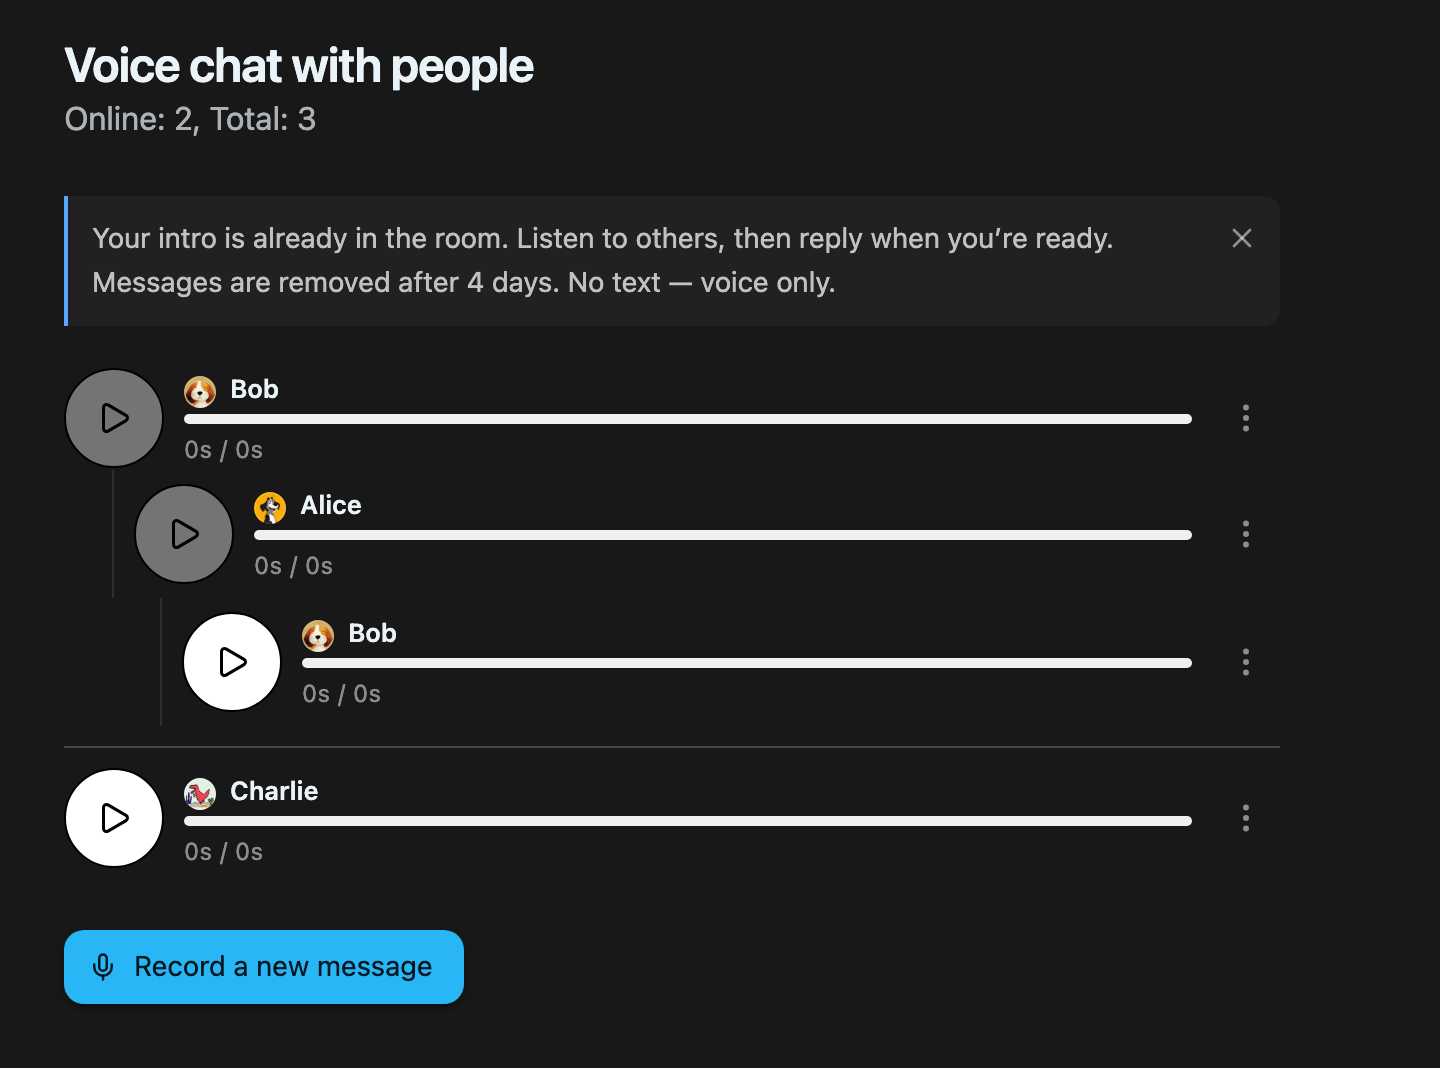
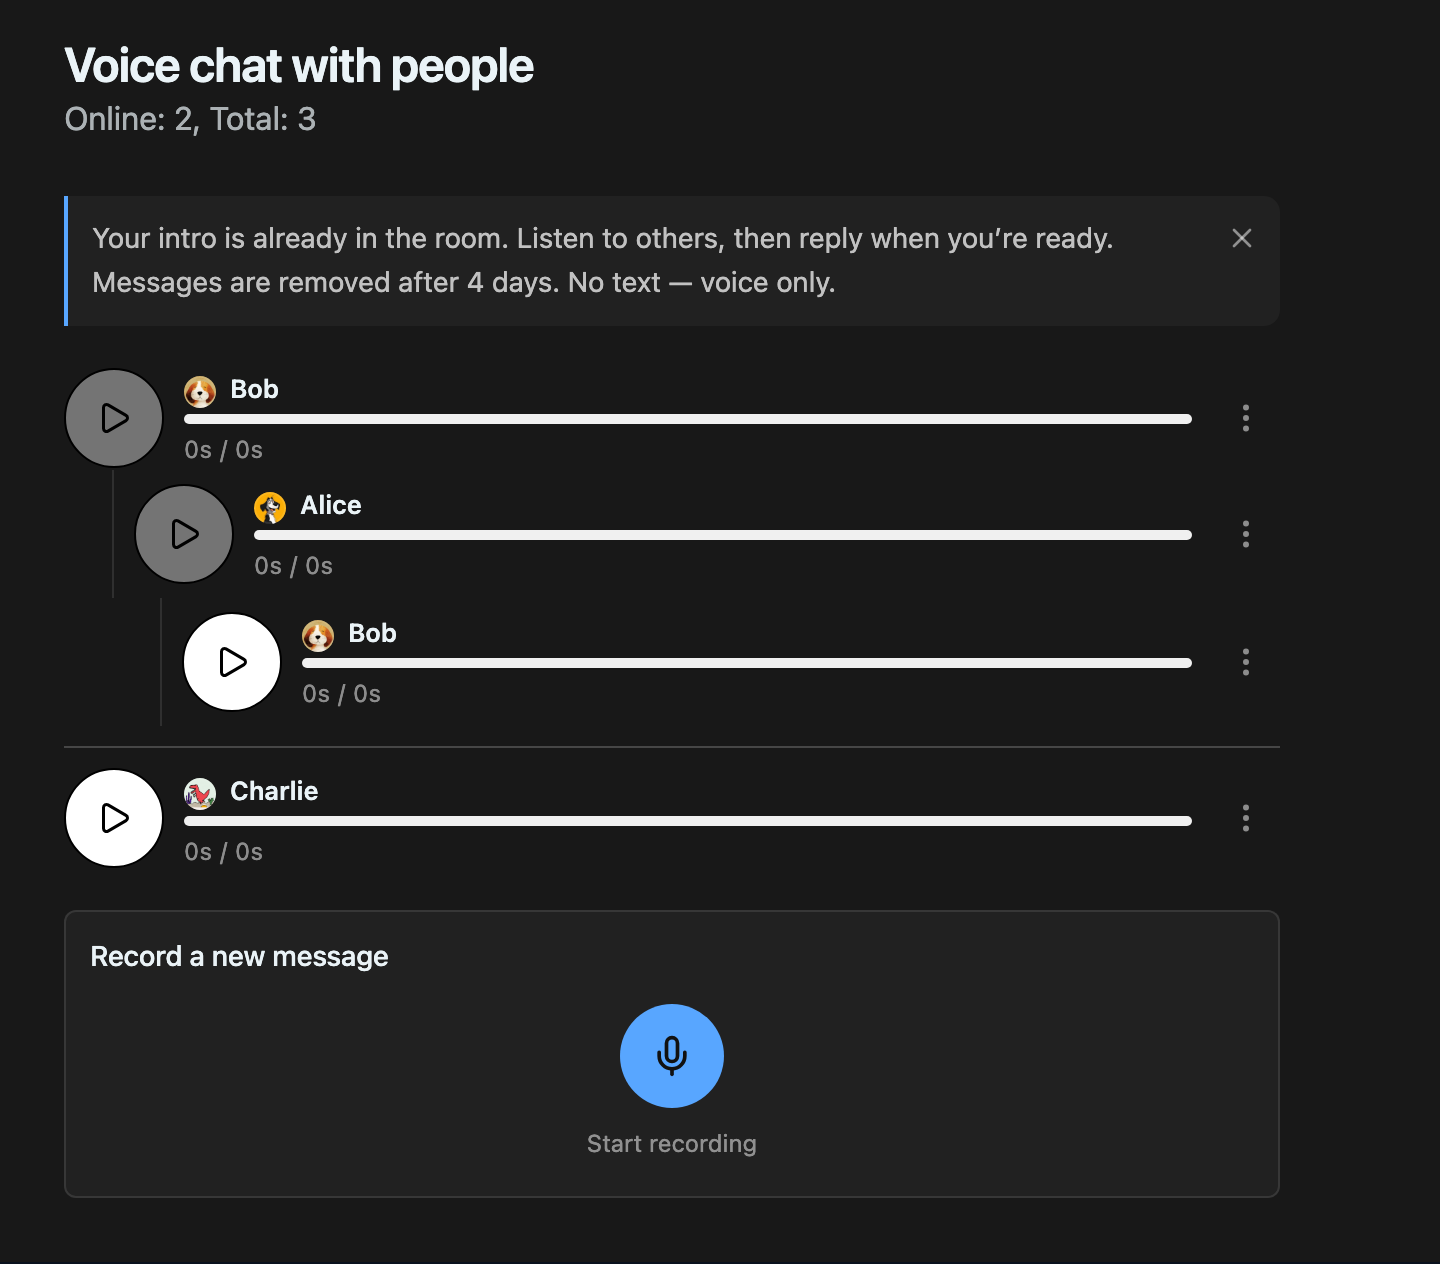
refactor: update voice chat modal and testing structure
- Removed the "Record a new message" button from the `VoiceChatModalContent`, making the recording feature always visible.
- Updated the `VoiceChatModal` and related components to eliminate the `showRootRecorder` state, simplifying the modal's functionality.
- Revised tests to reflect changes in the modal structure, ensuring accurate screenshot comparisons.
- Adjusted documentation to clarify the new behavior of the voice chat features.

Changed region(s): [[0.0312, 0.1854, 0.8438, 0.927], [0.0312, 0.8652, 0.3438, 0.9579], [0.0312, 0.0309, 0.375, 0.1236]]

diff --git a/webApp/src/features/Chat/VoiceChat/components/VoiceChatModalContent.tsx b/webApp/src/features/Chat/VoiceChat/components/VoiceChatModalContent.tsx
@@ -1,8 +1,8 @@
 'use client';
 
 import { useLingui } from '@lingui/react';
-import { Button, IconButton, Stack, Typography } from '@mui/material';
-import { Mic, X } from 'lucide-react';
+import { IconButton, Stack, Typography } from '@mui/material';
+import { X } from 'lucide-react';
 import { useState } from 'react';
 import { useGame } from '@/features/Game/useGame';
 import { isVoiceChatUserOnline } from '../isVoiceChatUserOnline';
@@ -27,7 +27,6 @@ export interface VoiceChatModalContentProps {
   audioUrlById: Record<string, string>;
   playingMessageId: string | null;
   autoPlayMessageId: string | null;
-  showRootRecorder: boolean;
   error?: string;
   isLoading?: boolean;
   onPlayStart: (messageId: string) => void;
@@ -35,9 +34,7 @@ export interface VoiceChatModalContentProps {
   onEnded: (messageId: string) => void;
   onReply: (parentMessageId: string, blob: Blob, durationSec: number) => Promise<void>;
   onRemove: (messageId: string) => Promise<void>;
-  onShowRootRecorder: () => void;
   onSubmitRootMessage: (blob: Blob, durationSec: number) => Promise<void>;
-  onCancelRootRecorder: () => void;
 }
 
 export const VoiceChatModalContent = ({
@@ -48,7 +45,6 @@ export const VoiceChatModalContent = ({
   audioUrlById,
   playingMessageId,
   autoPlayMessageId,
-  showRootRecorder,
   error,
   isLoading = false,
   onPlayStart,
@@ -56,9 +52,7 @@ export const VoiceChatModalContent = ({
   onEnded,
   onReply,
   onRemove,
-  onShowRootRecorder,
   onSubmitRootMessage,
-  onCancelRootRecorder,
 }: VoiceChatModalContentProps) => {
   const { i18n } = useLingui();
   const game = useGame();
@@ -177,32 +171,11 @@ export const VoiceChatModalContent = ({
         />
       )}
 
-      {!showRootRecorder ? (
-        <Stack
-          sx={{
-            alignItems: 'flex-start',
-            justifyContent: 'flex-start',
-            flexDirection: 'row',
-            paddingTop: '10px',
-          }}
-        >
-          <Button
-            startIcon={<Mic size="15px" />}
-            variant="contained"
-            color="info"
-            onClick={onShowRootRecorder}
-          >
-            {i18n._('Record a new message')}
-          </Button>
-        </Stack>
-      ) : (
-        <VoiceChatRecorderPanel
-          title={i18n._('Record a new message')}
-          submitLabel={i18n._('Send')}
-          onSubmit={onSubmitRootMessage}
-          onCancel={onCancelRootRecorder}
-        />
-      )}
+      <VoiceChatRecorderPanel
+        title={i18n._('Record a new message')}
+        submitLabel={i18n._('Send')}
+        onSubmit={onSubmitRootMessage}
+      />
 
       <VoiceChatMembersDialog
         open={isMembersOpen}

diff --git a/webApp/src/features/Chat/VoiceChat/VoiceChatModal.tsx b/webApp/src/features/Chat/VoiceChat/VoiceChatModal.tsx
@@ -25,7 +25,6 @@ export const VoiceChatModal = ({ onClose }: { onClose: () => void }) => {
   const [audioUrlById, setAudioUrlById] = useState<Record<string, string>>({});
   const [error, setError] = useState('');
   const [isLoading, setIsLoading] = useState(true);
-  const [showRootRecorder, setShowRootRecorder] = useState(false);
   const objectUrlsRef = useRef<string[]>([]);
 
   const load = useCallback(async () => {
@@ -138,7 +137,6 @@ export const VoiceChatModal = ({ onClose }: { onClose: () => void }) => {
         audioUrlById={audioUrlById}
         playingMessageId={playingMessageId}
         autoPlayMessageId={autoPlayMessageId}
-        showRootRecorder={showRootRecorder}
         error={error}
         isLoading={isLoading}
         onPlayStart={onPlayStart}
@@ -146,12 +144,9 @@ export const VoiceChatModal = ({ onClose }: { onClose: () => void }) => {
         onEnded={(id) => void onEnded(id)}
         onReply={onReply}
         onRemove={onRemove}
-        onShowRootRecorder={() => setShowRootRecorder(true)}
         onSubmitRootMessage={async (blob, durationSec) => {
           await onReply('', blob, durationSec);
-          setShowRootRecorder(false);
         }}
-        onCancelRootRecorder={() => setShowRootRecorder(false)}
       />
     </CustomModal>
   );

diff --git a/webApp/src/features/Chat/VoiceChat/voiceChatFixtureProps.ts b/webApp/src/features/Chat/VoiceChat/voiceChatFixtureProps.ts
@@ -58,7 +58,6 @@ export function modalFixtureContentProps(options: {
   playingMessageId?: string | null;
   autoPlayMessageId?: string | null;
   audioUrlById?: Record<string, string>;
-  showRecorder?: boolean;
 }): VoiceChatModalContentProps {
   const {
     messages = FIXTURE_CONVERSATION,
@@ -67,7 +66,6 @@ export function modalFixtureContentProps(options: {
     playingMessageId = null,
     autoPlayMessageId = null,
     audioUrlById,
-    showRecorder = false,
   } = options;
 
   return {
@@ -78,15 +76,12 @@ export function modalFixtureContentProps(options: {
     audioUrlById: audioUrlById ?? fixtureAudioUrlById(messages),
     playingMessageId,
     autoPlayMessageId,
-    showRootRecorder: showRecorder,
     onPlayStart: () => {},
     onProgressListen: () => {},
     onEnded: () => {},
     onReply: noopAsync,
     onRemove: noopAsync,
-    onShowRootRecorder: () => {},
     onSubmitRootMessage: noopAsync,
-    onCancelRootRecorder: () => {},
   };
 }
 

diff --git a/webApp/src/features/Chat/VoiceChat/VoiceChat.browser.test.tsx b/webApp/src/features/Chat/VoiceChat/VoiceChat.browser.test.tsx
@@ -91,22 +91,12 @@ test('message list – reply recorder open', async () => {
     .toMatchScreenshot('message-list-reply-recorder');
 });
 
-test('modal shell – conversation with record button', async () => {
+test('modal shell – conversation with root recorder', async () => {
   await render(<VoiceChatModalShellFixture messages={FIXTURE_CONVERSATION} />);
 
   await expect
     .element(page.getByTestId('voice-chat-modal-shell-fixture'))
     .toMatchScreenshot('modal-shell-conversation');
-});
-
-test('modal shell – root recorder open', async () => {
-  await render(
-    <VoiceChatModalShellFixture messages={FIXTURE_CONVERSATION} showRecorder={true} />,
-  );
-
-  await expect
-    .element(page.getByTestId('voice-chat-modal-shell-fixture'))
-    .toMatchScreenshot('modal-shell-recorder');
 });
 
 test('modal shell – members dialog with Total / Online tabs', async () => {

diff --git a/webApp/src/features/Chat/VoiceChat/voiceChatBrowserFixtures.tsx b/webApp/src/features/Chat/VoiceChat/voiceChatBrowserFixtures.tsx
@@ -100,7 +100,6 @@ export function VoiceChatModalShellFixture(props: {
   playingMessageId?: string | null;
   autoPlayMessageId?: string | null;
   audioUrlById?: Record<string, string>;
-  showRecorder?: boolean;
 }) {
   return (
     <VoiceChatTestShell testId="voice-chat-modal-shell-fixture" surface="modal">

diff --git a/webApp/src/features/Chat/VoiceChat/AGENTS.md b/webApp/src/features/Chat/VoiceChat/AGENTS.md
@@ -122,7 +122,7 @@ Browser screenshot tests: `VoiceChat.browser.test.tsx` + `voiceChatBrowserFixtur
 | Screenshot | Covers |
 | --- | --- |
 | `message-list-*` | Empty thread, nested replies, active player, reply recorder (`VoiceChatMessageItem`: row 1 identity, row 2 play · duration · reply) |
-| `modal-shell-*` | Modal header/alert, thread + record button or root recorder |
+| `modal-shell-*` | Modal header/alert, thread + always-visible root recorder |
 | `modal-members-dialog` | Members list dialog opened from Online/Total |
 | `player-controls` | Audio player chrome |
 | `recorder-idle` | Intro recorder before mic start |

diff --git a/PLAN.md b/PLAN.md
@@ -4,14 +4,6 @@
 
 Status: Not started
 
-webApp/src/features/Chat/VoiceChat/components/VoiceChatModalContent.tsx
-
-Do not show button "Record a new messages", show recording panned from start
-
-======
-
-Status: Not started
-
 - Show badge: New. On messages that are not listened.
   Show that badge next to username
 
